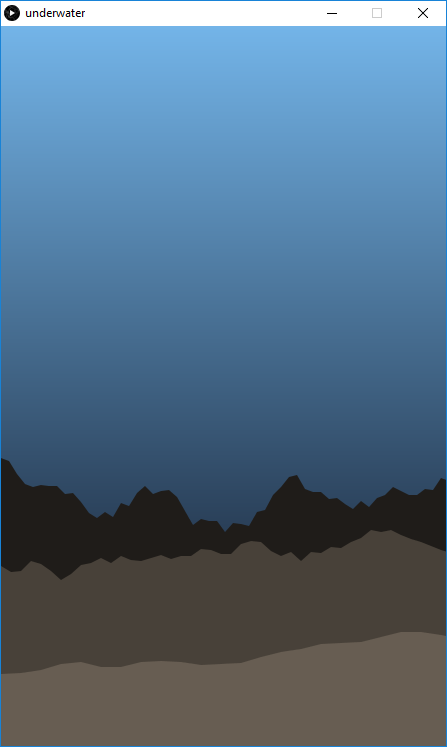
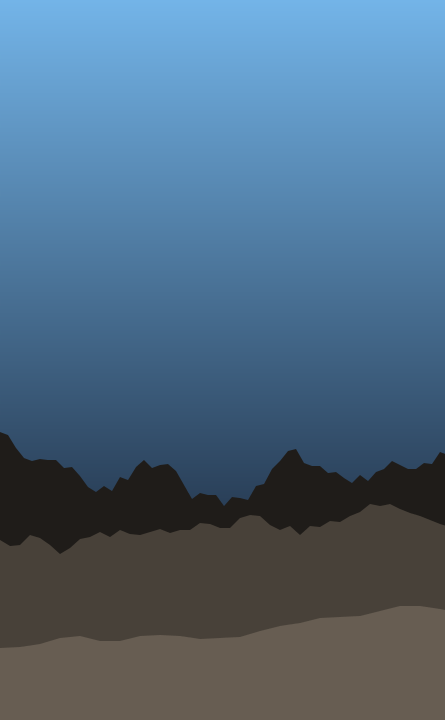
Update screenshots of underwater and README

diff --git a/README.md b/README.md
@@ -1,7 +1,7 @@
-# Procedural Challenges from subreddit /r/proceduralgeneration
-Hi there! Welcome to my repository for all good procedural challenges from the subreddit of /r/proceduralgeneration.
+# Procedural Challenges
+Hi there! Welcome to my repository for all good procedural challenges from [the subreddit of /r/proceduralgeneration](https://www.reddit.com/r/proceduralgeneration).
 
-I'm very interesting into computer graphics and every topics around video games and simulation. So procedural generation is one of my favorite topics. Redditers from /r/proceduralgeneration proposed each month a challenge for procedural generated demo. This is a good opportunity for me to learn more (not only in procedual generation but even in programming) and master procedual generation and computer graphic programming.
+I'm very interesting into computer graphics and every topics around video games and simulation. So procedural generation is one of my favorite topics. Redditers from /r/proceduralgeneration proposed each month a challenge for a procedural generated demo. The subject is generally pretty broad and there is a large diversity of works. This is a good opportunity for me to learn more (not only in procedural generation but even in programming) and master procedural generation and computer graphic programming.
 
 Take a tour. This repository contains one folder by challenge.
 
